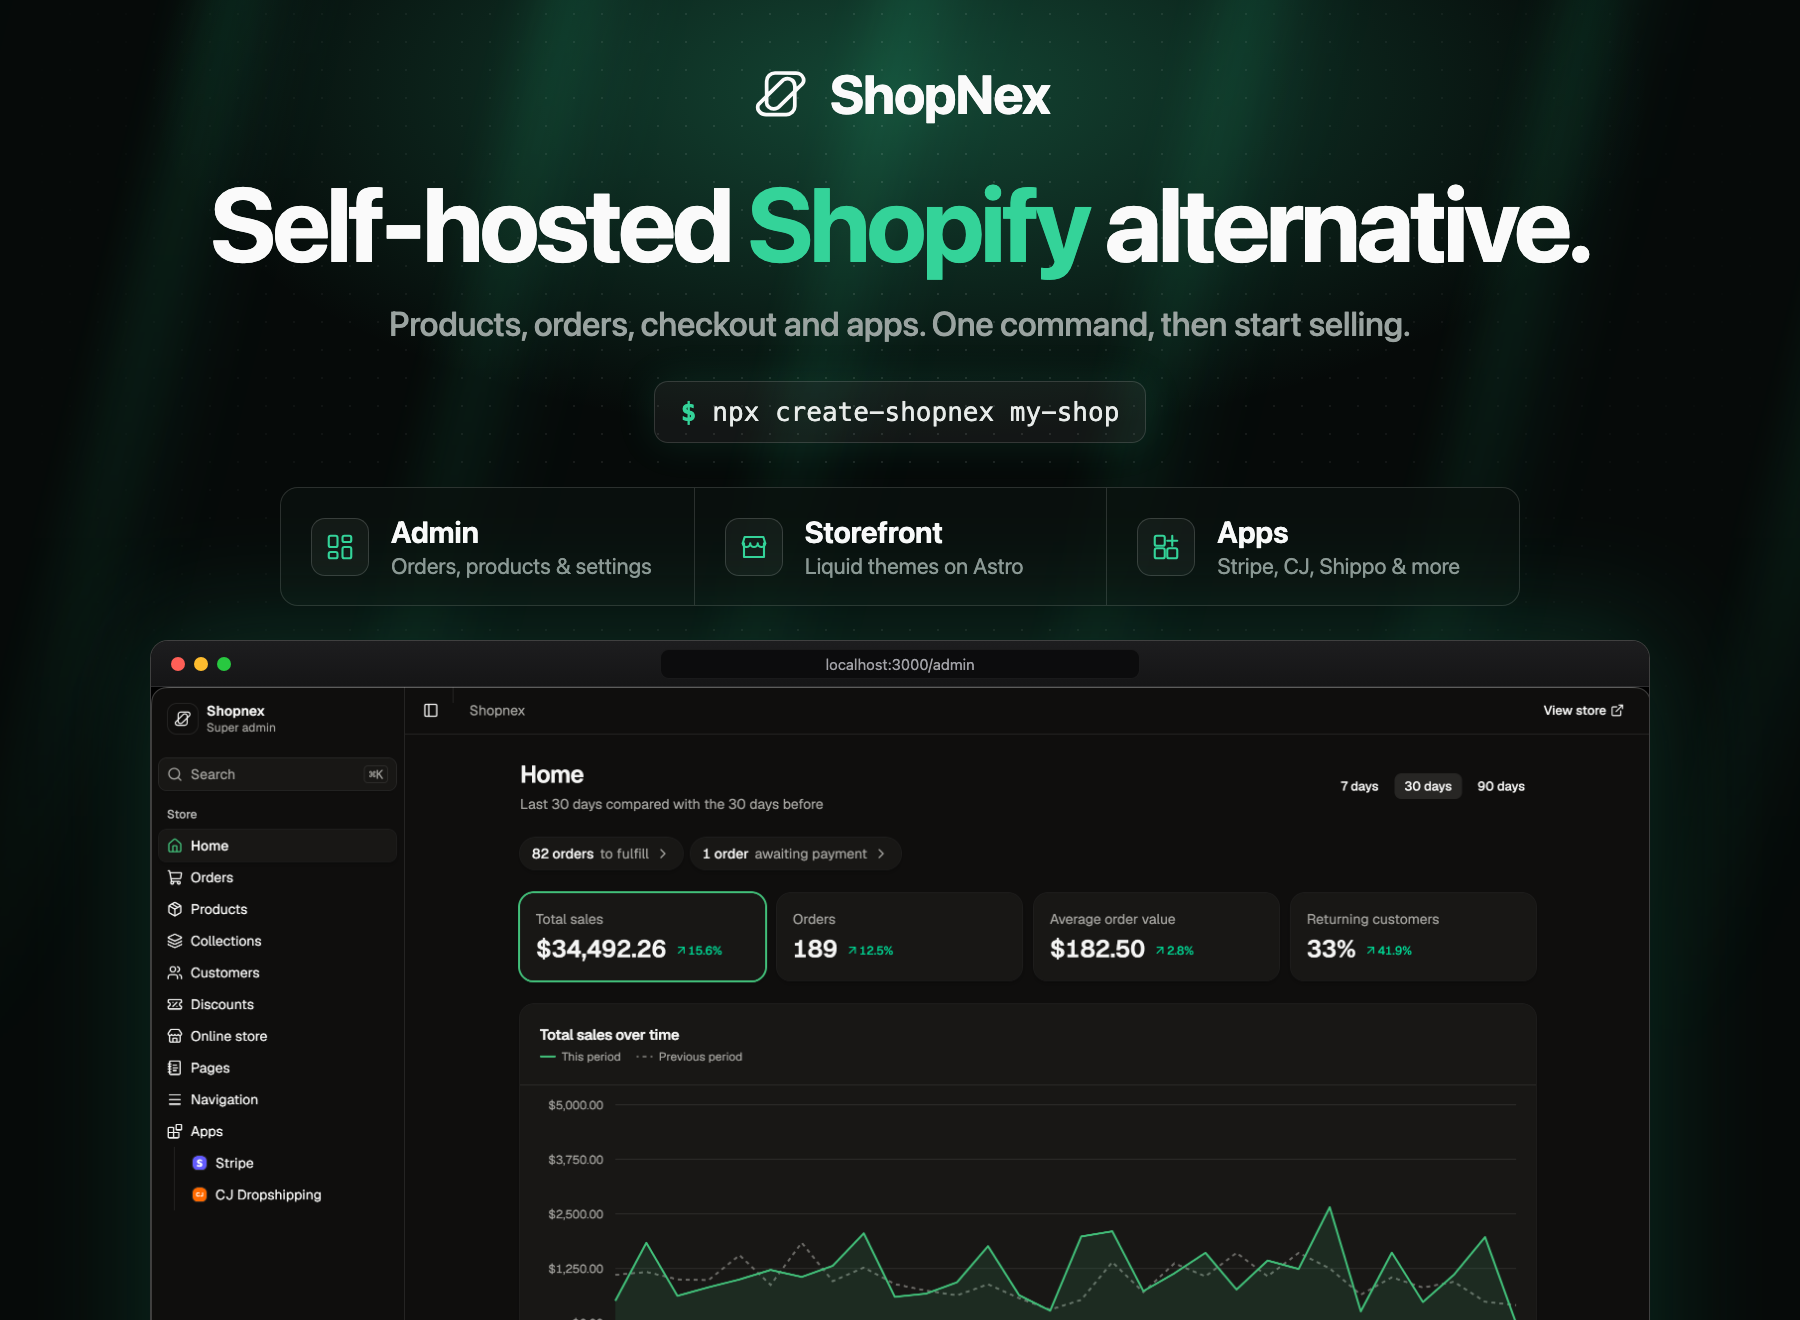
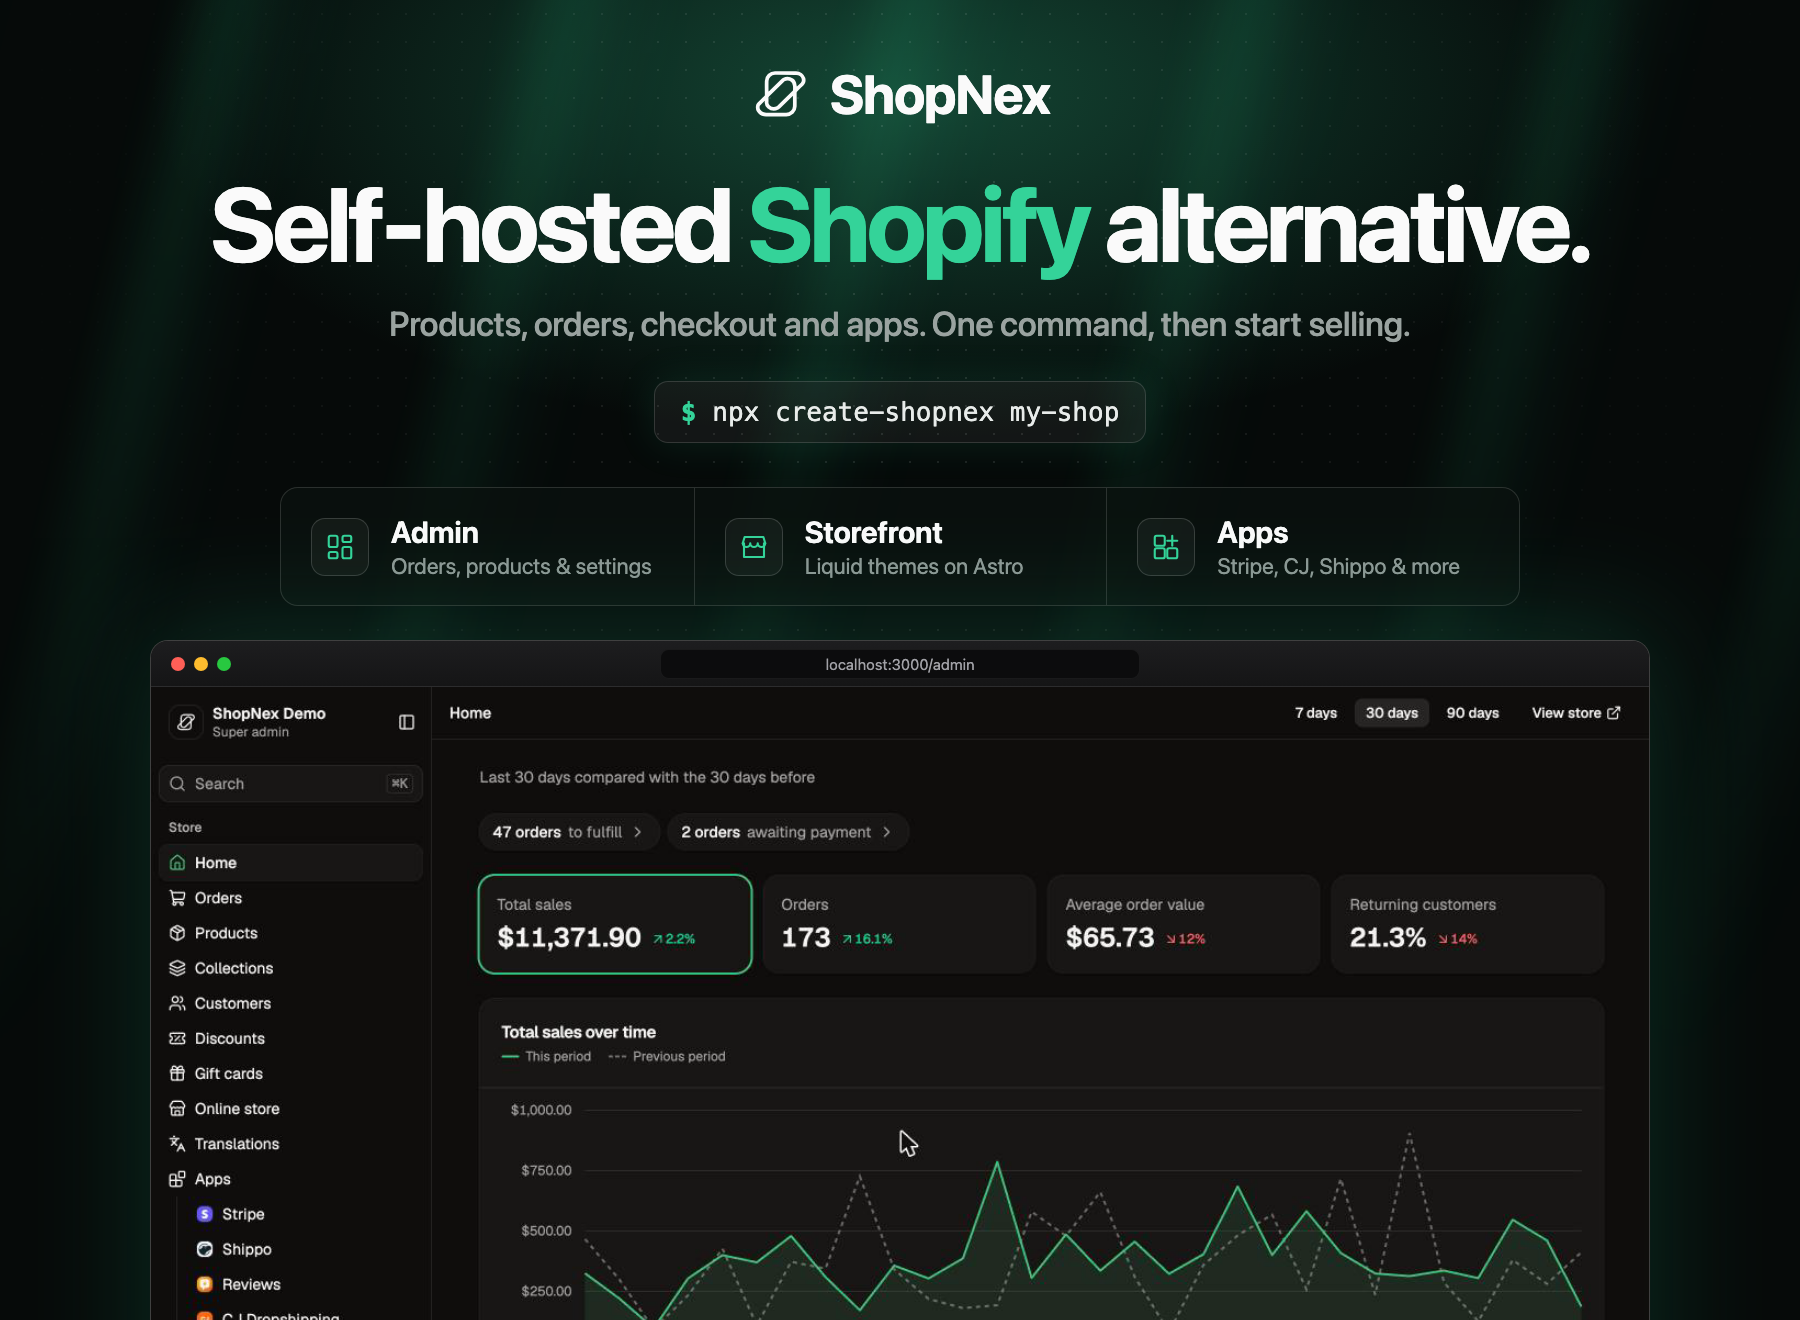
docs: README hero uses the landing page's admin screenshot (#455)
* docs: README hero uses the landing page's admin screenshot

Rebuilt docs/images/dashboard.png with scripts/readme-hero/build.mjs from apps/landing/src/assets/admin-home.png, so the README shows the same current admin (demo store, Gift cards, Translations, Shippo and Reviews) as the landing page.

* docs: move the storefront screenshot below Quick start

* docs: npm downloads badge in the README

---------

diff --git a/README.md b/README.md
@@ -8,12 +8,9 @@
   <a href="https://github.com/shopnex-ai/shopnex/actions/workflows/ci.yaml"><img src="https://github.com/shopnex-ai/shopnex/actions/workflows/ci.yaml/badge.svg" alt="CI"></a>
   <a href="https://github.com/shopnex-ai/shopnex/releases"><img src="https://img.shields.io/github/v/release/shopnex-ai/shopnex?include_prereleases&sort=semver" alt="Release"></a>
   <a href="LICENSE"><img src="https://img.shields.io/github/license/shopnex-ai/shopnex" alt="License: MIT"></a>
+  <a href="https://www.npmjs.com/package/create-shopnex"><img src="https://img.shields.io/npm/dm/create-shopnex?label=npm%20downloads" alt="npm downloads per month"></a>
   <a href=".node-version"><img src="https://img.shields.io/badge/node-%E2%89%A522.22-339933?logo=nodedotjs&logoColor=white" alt="Node"></a>
   <a href="https://discord.gg/xQ8xKV6MdF"><img src="https://img.shields.io/badge/Discord-join%20chat-5865F2?logo=discord&logoColor=white" alt="Join the ShopNex Discord"></a>
-</p>
-
-<p align="center">
-  <img src="docs/images/storefront.webp" alt="ShopNex storefront home page with a hero banner and a Shop now button" width="900">
 </p>
 
 ## Quick start
@@ -29,6 +26,10 @@ Open http://localhost:3000, follow the setup wizard, and your storefront is on h
 - Add optional apps: `--with stripe,cj,shippo`.
 - Everything lives in the `my-shop` folder (`.env`, embedded database in `.pglite/`). Delete it to start over.
 - It's a trial setup. For production, set `DATABASE_URL` to PostgreSQL or see the [self-hosting guide](apps/docs/content/docs/self-hosting/install.mdx).
+
+<p align="center">
+  <img src="docs/images/storefront.webp" alt="ShopNex storefront home page with a hero banner and a Shop now button" width="900">
+</p>
 
 ## What you get
 
